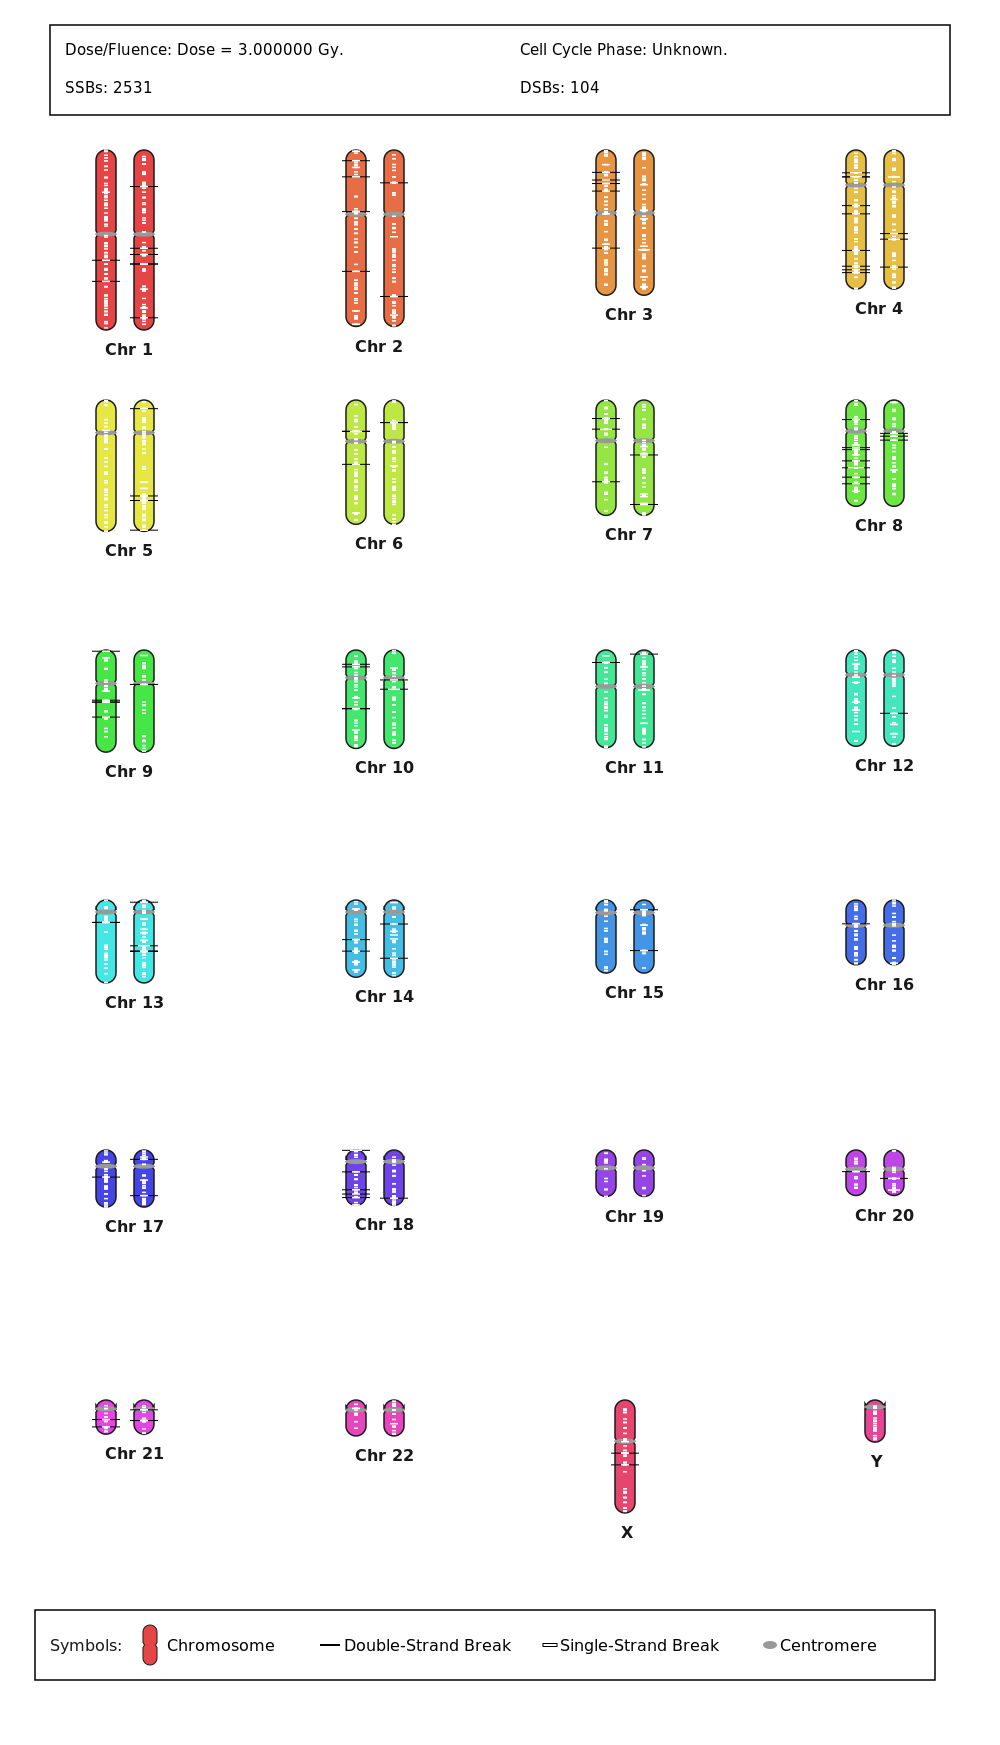
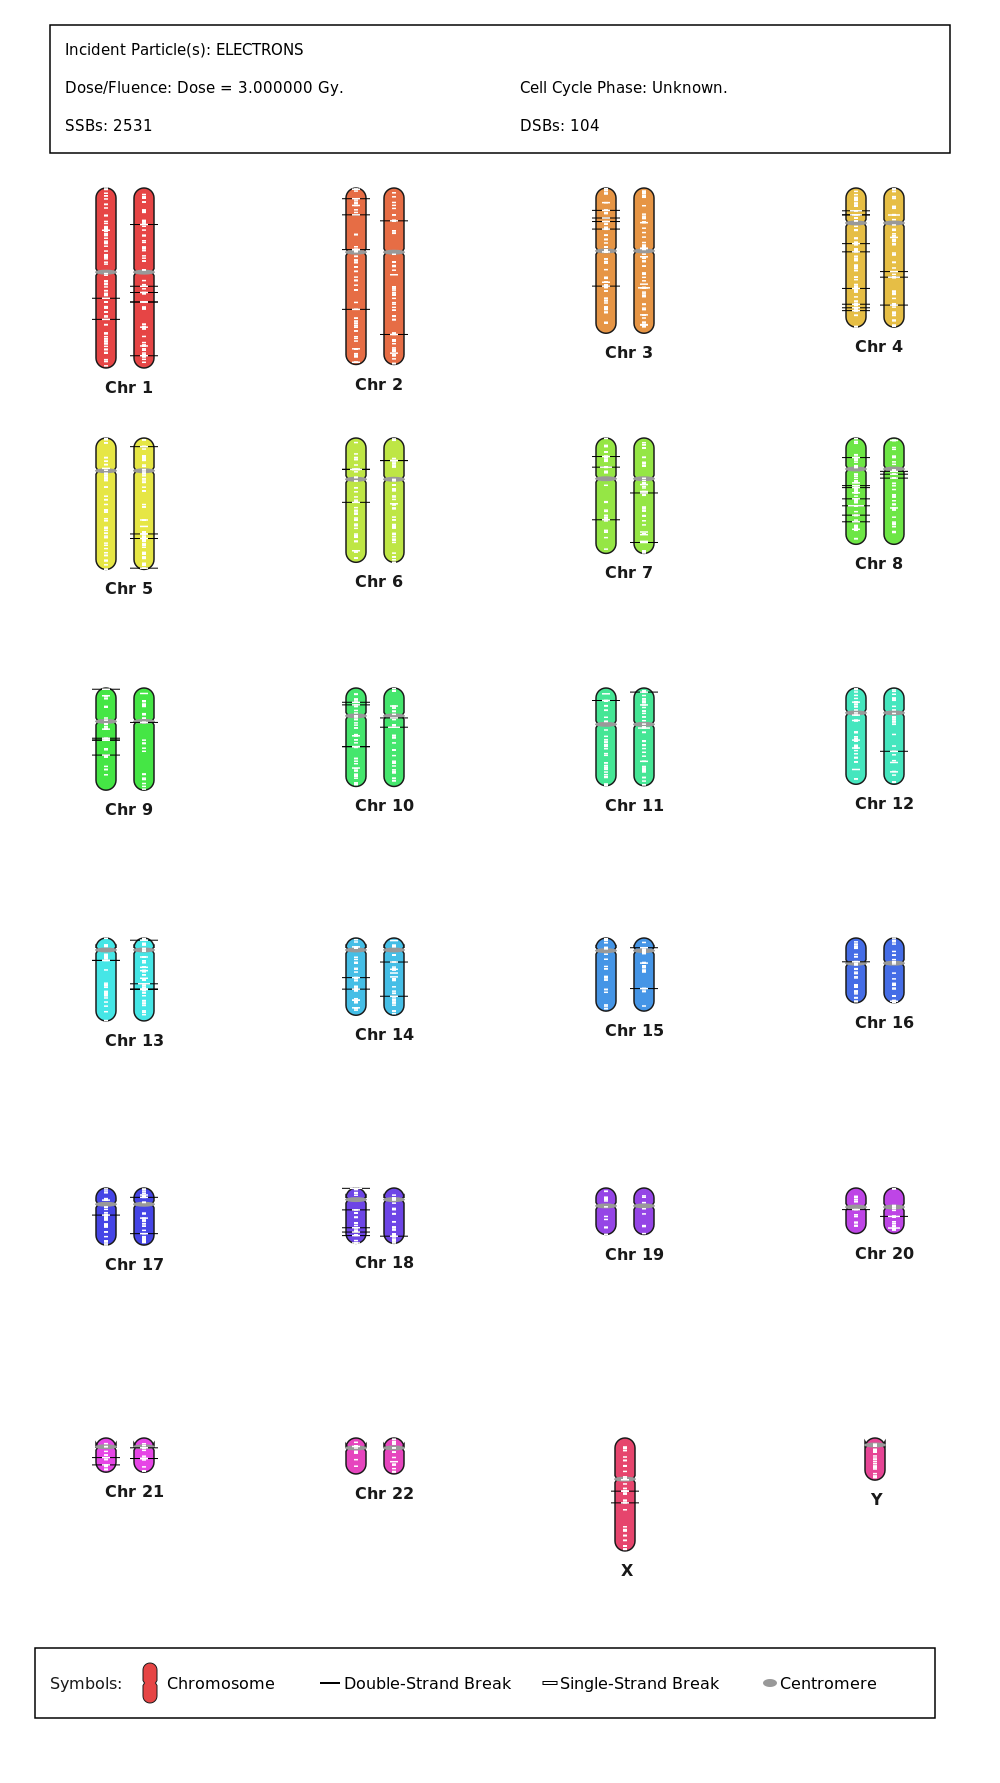
Added incident particles to karyogram, created gif for README

diff --git a/source/Karyogram.cpp b/source/Karyogram.cpp
@@ -77,7 +77,8 @@ const CentromerePosition* Karyogram::getHumanCentromere(			// Function to return
 bool Karyogram::generateKaryogram(						// Function that generates the overall Karyogram structure
     const std::vector<double>& chromosomeSizes,					// Requires chromosome sizes in the SDD file header for scaling on the image
     const std::vector<double>& cellCyclePhase,					// Requires cell cycle phase in the SDD file header for determining presence of duplicated chromosomes.
-    const std::vector<double>& doseOrFluence,
+    const std::vector<double>& doseOrFluence,					// Accesses the SDD dose or fluence listed in the header
+    const std::vector<int>& incidentParticles,					// Accesses the SDD incident particles in the header
     const std::vector<Exposure>& exposures,					// Accesses the damage locations associated with each chromosome in a given exposure.
     bool humanGenome,								// Boolean to determine if karyogram should be drawn with human centromere ranges or generic centromere locations for non-human genomes.
     const std::string& outputFilename)						// Outputs the image to the outputFilename.
@@ -161,7 +162,7 @@ bool Karyogram::generateKaryogram(						// Function that generates the overall K
     const int columns = 4;							// Desired number of columns in the karyogram
     const double colWidth = static_cast<double>(imgWidth) / columns;		// Column width also in number of pixels
     const double rowHeight = 250.0;						// Row height in number of pixels
-    const double startY = 150.0;						// Choosing the starting Y position for the first row of chromosomes
+    const double startY = 188.0;						// Choosing the starting Y position for the first row of chromosomes
     const int rows = (drawableGroups + columns - 1) / columns;			// Determine number of rows based on number of chromosomes passed.
     const double legendHeight = 70.0;
     const double legendBottomMargin = 25.0;
@@ -192,12 +193,7 @@ bool Karyogram::generateKaryogram(						// Function that generates the overall K
     // Draw SDD summary
     // ----------------------------------------------------
 
-    drawSDDsummary(
-    	cr,
-    	cellCyclePhase,
-    	exposures,
-    	doseOrFluence
-    );
+    drawSDDsummary(cr, cellCyclePhase, exposures, doseOrFluence, incidentParticles);
 
     
     // -----------------------------------------------------------
@@ -1084,7 +1080,7 @@ void Karyogram::drawSingleStrandBreakMarker(
     cairo_stroke(cr);
 }
 
-void Karyogram::drawSDDsummary(cairo_t* cr, const std::vector<double>& cellCyclePhase, const std::vector<Exposure>& exposures, const std::vector<double>& doseOrFluence)
+void Karyogram::drawSDDsummary(cairo_t* cr, const std::vector<double>& cellCyclePhase, const std::vector<Exposure>& exposures, const std::vector<double>& doseOrFluence, const std::vector<int>& incidentParticles)
 {
     // --------------------------------------------------
     // Summary box position and dimensions
@@ -1094,7 +1090,7 @@ void Karyogram::drawSDDsummary(cairo_t* cr, const std::vector<double>& cellCycle
     const double summaryY = 25.0;
 
     const double summaryWidth = 900.0;
-    const double summaryHeight = 90.0;
+    const double summaryHeight = 128.0;
 
     // --------------------------------------------------
     // Count DSBs and SSBs
@@ -1116,17 +1112,31 @@ void Karyogram::drawSDDsummary(cairo_t* cr, const std::vector<double>& cellCycle
         }
     }
 
-    // --------------------------------------------------
-    // Determine cell cycle phase
-    // --------------------------------------------------
 
+    // Determine cell cycle phase
     std::string phaseLabel = cellCyclePhaseMeaning(cellCyclePhase);		// Helper function in SDDutilities to interpret cell cycle phase code in SDD header.
 
-    // --------------------------------------------------
+
     // Determine Dose or Fluence
-    // --------------------------------------------------
     std::string doseOrFluenceSummary = doseOrFluenceMeaning(doseOrFluence);
 
+    // Determine incident particle(s)
+    std::string incidentParticlesLabel;
+    if (incidentParticles.empty())
+    {
+	incidentParticlesLabel = "N/A";
+    }
+    else
+    {
+	for (std::size_t i = 0; i < incidentParticles.size(); i++)
+	{
+	    incidentParticlesLabel += incidentParticlesMeaning(incidentParticles[i]);
+	    if (i + 1 < incidentParticles.size())
+	    {
+		incidentParticlesLabel += ", ";
+	    }
+	}
+    }
 
     // --------------------------------------------------
     // Draw summary box
@@ -1171,19 +1181,36 @@ void Karyogram::drawSDDsummary(cairo_t* cr, const std::vector<double>& cellCycle
 
     cairo_set_font_size(cr, 15.0);
 
-    // Two rows of text
+    // Three rows of text
     const double firstRowY = summaryY + 30.0;
     const double secondRowY = summaryY + 68.0;
+    const double thirdRowY = summaryY + 106.0;
 
     // ------------------------------------------
-    // ROW 1 
+    // TOP ROW
     // ------------------------------------------
+
+    // Incident Particle(s)
+    cairo_move_to(
+        cr,
+        summaryX + 15.0,
+        firstRowY
+    );
+
+    cairo_show_text(
+        cr,
+        ("Incident Particle(s): " + incidentParticlesLabel).c_str()
+    );
+
+    // -----------------------------------------
+    // SECOND ROW
+    // -----------------------------------------
 
     // Dose / fluence
     cairo_move_to(
         cr,
         summaryX + 15.0,
-        firstRowY
+        secondRowY
     );
 
     cairo_show_text(
@@ -1195,7 +1222,7 @@ void Karyogram::drawSDDsummary(cairo_t* cr, const std::vector<double>& cellCycle
     cairo_move_to(
         cr,
         summaryX + 470.0,
-        firstRowY
+        secondRowY
     );
 
     cairo_show_text(
@@ -1205,13 +1232,14 @@ void Karyogram::drawSDDsummary(cairo_t* cr, const std::vector<double>& cellCycle
     );
 
     // --------------------------------------------------
-    // ROW 2
+    // THIRD ROW
     // --------------------------------------------------
+
     // SSBs
     cairo_move_to(
         cr,
         summaryX + 15.0,
-        secondRowY
+        thirdRowY
     );
 
     cairo_show_text(
@@ -1224,7 +1252,7 @@ void Karyogram::drawSDDsummary(cairo_t* cr, const std::vector<double>& cellCycle
     cairo_move_to(
         cr,
         summaryX + 470.0,
-        secondRowY
+        thirdRowY
     );
 
     cairo_show_text(

diff --git a/include/Karyogram.h b/include/Karyogram.h
@@ -51,7 +51,8 @@ public:
     bool generateKaryogram(				// Function that generates the overall Karyogram structure and calls individual functions to draw each chromosome based on sizes.
         const std::vector<double>& chromosomeSizes,	// Use to scale the chromosome heights and convert to number of pixels on the Karyogram.
 	const std::vector<double>& cellCyclePhase, 	// Look at SDD header 'Cell cycle phase' to determine if chromosomes should be replicated or not in the final karyogram.
-	const std::vector<double>& doseOrFluence,				// Look at SDD header for dose or fluence to be summarized in Karyogram.
+	const std::vector<double>& doseOrFluence,	// Look at SDD header for dose or fluence to be summarized in Karyogram.
+	const std::vector<int>& incidentParticles,	// Look at SDD header for 'Incident Particles' to be summarized in karyogram.
 	const std::vector<Exposure>& exposures,		// Loop through Exposures object to label chromosome IDs onto the karyogram
 	bool humanGenome,				// Check if the user passed the argument --karyogram human|other. if humanGenome = true, adjust the centromere locations. If humanGenome = false, use generic centromere locations.
         const std::string& outputFilename		// Specify generic output file name combining the input file prefix with the suffix "_karyogram.png"
@@ -75,9 +76,9 @@ private:
 
     const CentromerePosition* getHumanCentromere(int chromosomeID);		// Returns a chromosome's corresponding centromere start and end locations to draw the centromere ellipse on the karyogram.
 
-    void drawLegend(cairo_t* cr, double legendY);						// Function to draw the karyogram legend.
+    void drawLegend(cairo_t* cr, double legendY);						// Function to draw the karyogram legend at the bottom.
 
-    void drawSDDsummary(cairo_t* cr, const std::vector<double>& cellCyclePhase, const std::vector<Exposure>& exposures, const std::vector<double>& doseOrFluence);
+    void drawSDDsummary(cairo_t* cr, const std::vector<double>& cellCyclePhase, const std::vector<Exposure>& exposures, const std::vector<double>& doseOrFluence, const std::vector<int>& incidentParticles);						// Function to draw the karyogram summary box at the top.
 
     ChromosomeLayout determineChromosomeLayout(const std::vector<double>& chromosomeSizes);	// Function that will determine how the user passed the chromosomes.
 

diff --git a/source/main.cpp b/source/main.cpp
@@ -222,7 +222,8 @@ int main(int argc, char* argv[]) 					// Variables in main() brackets allow for 
                 header.chromosome_sizes,
                 header.cell_cycle_phase,
 		header.dose_or_fluence,
-	        parser.getExposures(), 
+		header.incident_particles,
+	        parser.getExposures(),
 		humanGenome,
 	        karyogramPath.string()))
          {

diff --git a/README.md b/README.md
@@ -73,6 +73,9 @@ The data block is summarized under the subsection 'Chromosome Damages', where th
 5. The total number of base damages, single-strand breaks, and double-strand breaks over all chromosomes over all exposures.
 
 WHAT IS PLOTTED IN THE SDD FILE KARYOGRAM:
+<p align = "center">
+<img src="damages_with_different_doses.gif" alt="Secondary electrons from 6 MeV photons at different doses">
+</p>
 1. All chromosomes passed by the user are plotted with distinct colors for visual clarity. If the user passes in the SDD file a genome that is
 not of human origin (i.e. not 46 chromosomes), the user must specify '--karyogram other'.
 2. Centromeric positions using the '--karyogram human' option are realistic and adjusted based on the chromosome being drawn, whereas 
